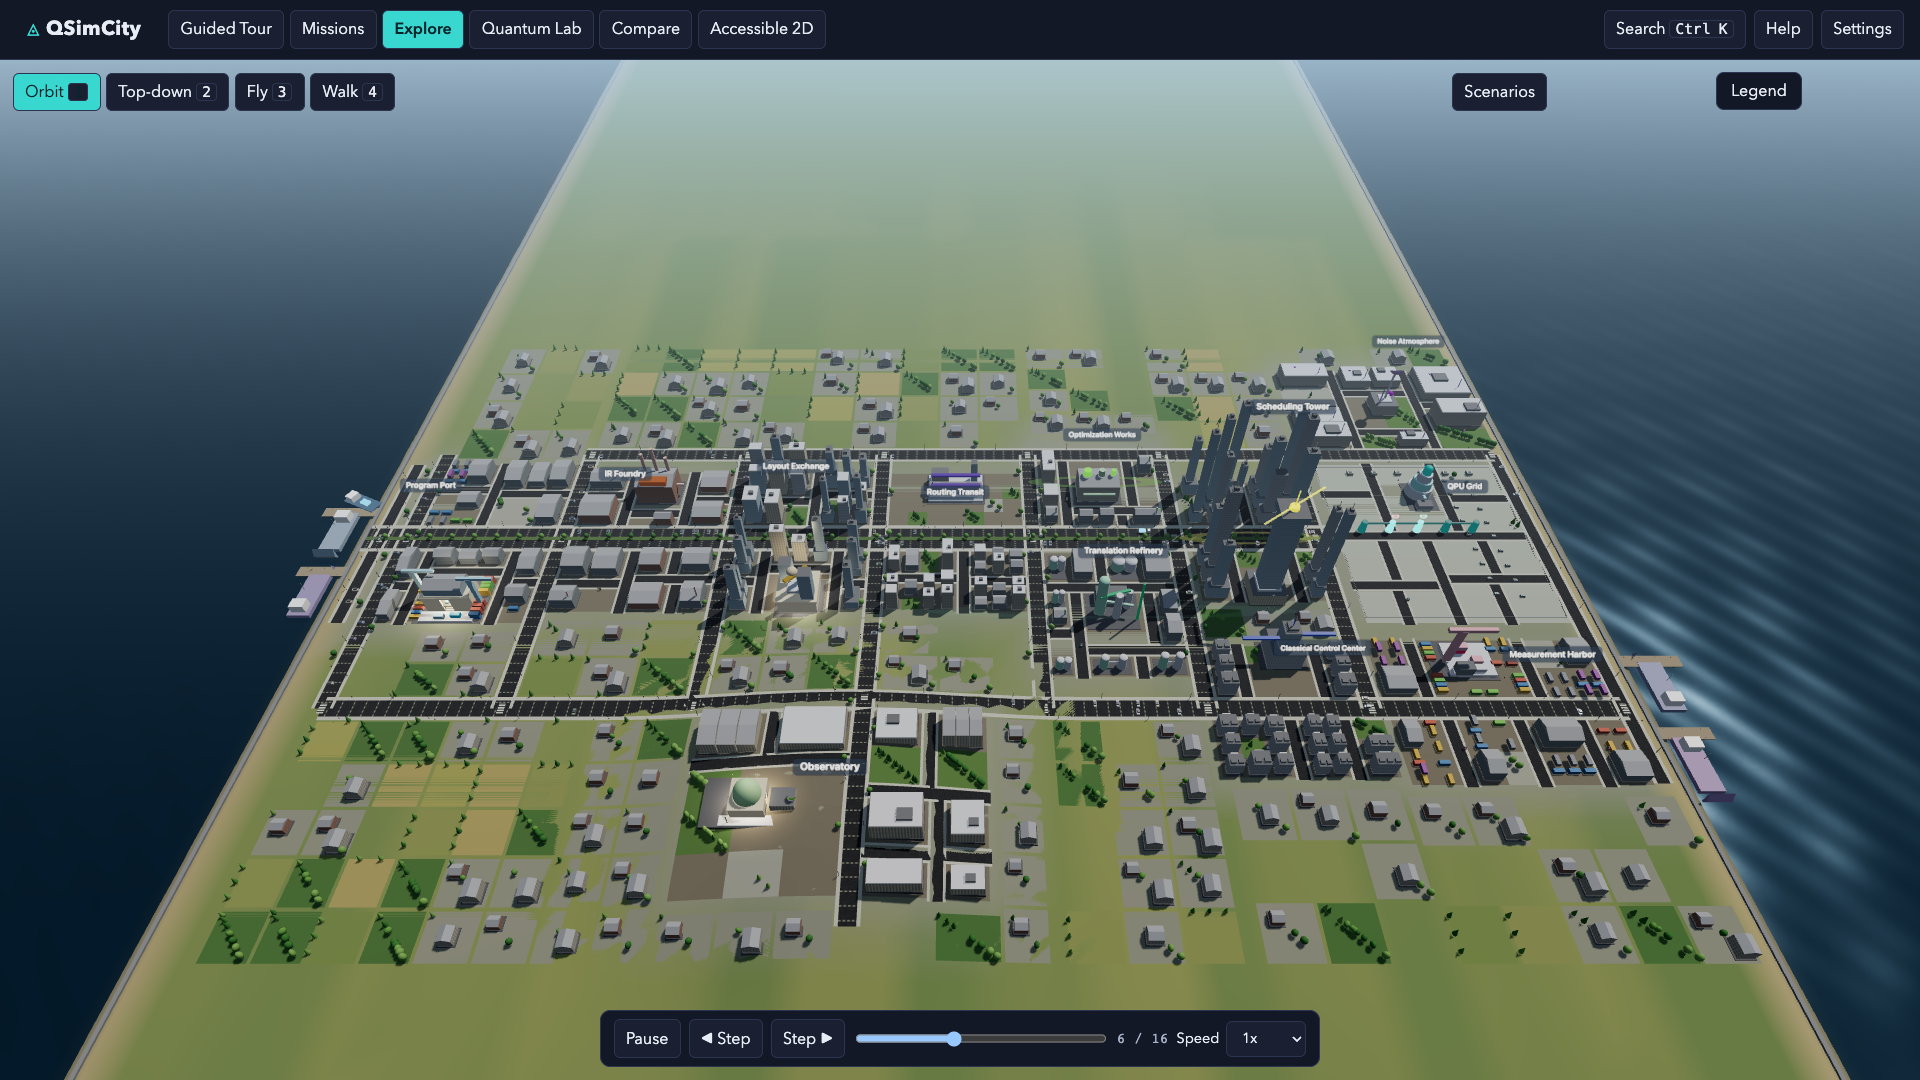
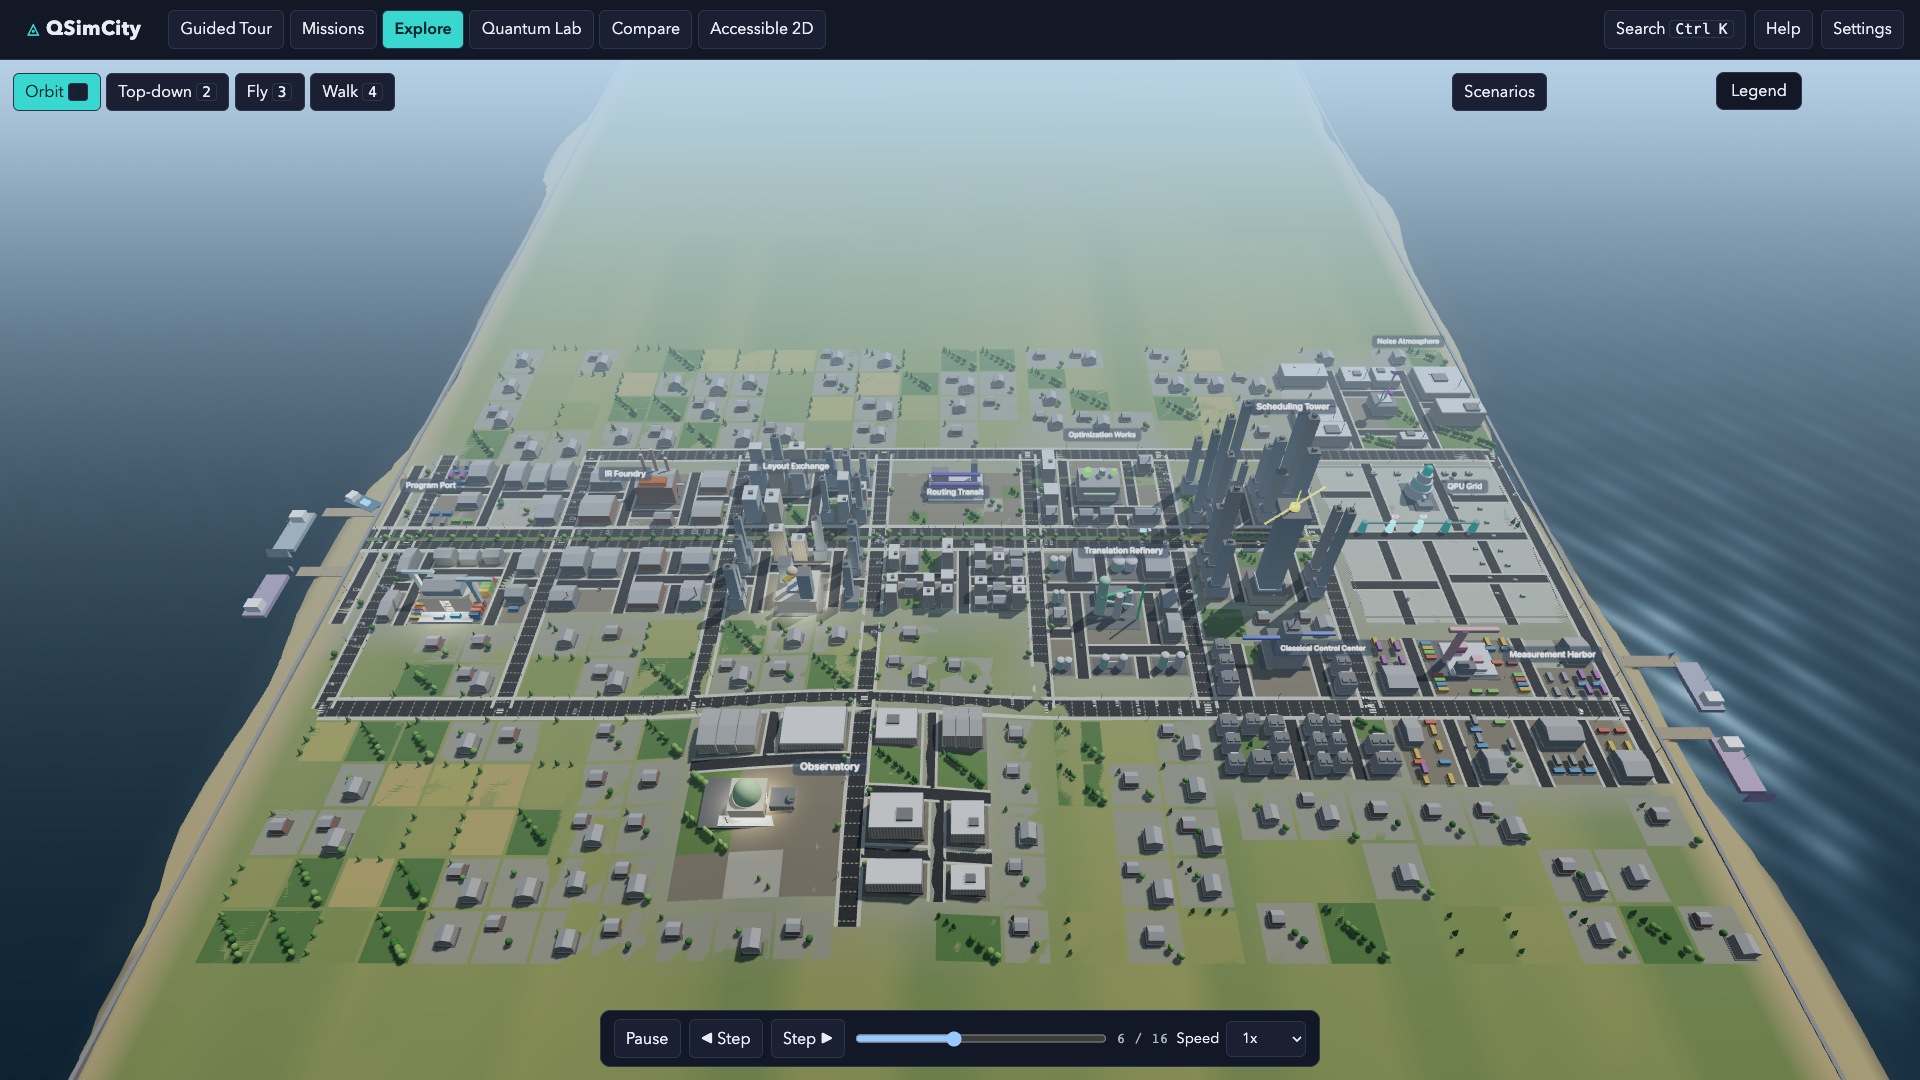
Give the city a coastline, air, and ground that is not perfectly flat
Inspected every surface with vision — overview, street, interior, day,
golden hour, night, mobile — and the diorama impression came down to three
things, all of them geometric rather than stylistic.

**The coast was two straight lines.** `isWater(x, _z)` ignored z entirely,
so the land was a perfect rectangle and read as a slab cut out and placed
on a table. The shoreline now wanders with z through three sine terms at
incommensurable wavelengths: deterministic, three trig calls, and it never
repeats over the city's length. The wander is applied strictly outward, so
it can only ever add land — the western quay road sits about ten units
inside the old coast line, and a shoreline that could move inland would
flood it. A test asserts that invariant across the whole z range, and
another asserts the coast actually wanders rather than silently
degenerating to a straight line.

**Water props were pinned to the old straight coast.** With the shoreline
moved, a ship moored a fixed distance west of WEST_COAST_X ended up beached
on the new land — which the W1.1 prop test caught immediately. Ships and
buoys are now placed relative to the shoreline at their own z.

**The ground was flat to the millimetre and the air was empty.** The plain
now rolls by under a metre over long wavelengths: enough that the eye stops
reading a table top, small enough that roads (which sample terrain every 12
units) and buildings still sit on it correctly. The land also dips to meet
[…]

diff --git a/packages/world/src/terrain.ts b/packages/world/src/terrain.ts
@@ -33,9 +33,50 @@ export const HILL_CENTER = { x: -20 * CITY_SCALE, z: 132 * CITY_SCALE } as const
 export const HILL_RADIUS = 82 * CITY_SCALE;
 export const HILL_HEIGHT = 16;
 
-/** True when the point lies in open water (beyond either quay edge). */
-export function isWater(x: number, _z: number): boolean {
-  return x < WEST_COAST_X || x > EAST_COAST_X;
+/**
+ * Smooth, deterministic coastline wander at a given z.
+ *
+ * A coast made of two perfectly straight lines is the single strongest
+ * reason the city read as a rectangular slab sitting on a table: real
+ * shorelines are never parallel to a grid. Three sine terms at
+ * incommensurable wavelengths give a shoreline that never repeats over the
+ * city's length, costs three trig calls, and is exactly reproducible —
+ * no runtime randomness anywhere near rendering (W1.10).
+ *
+ * The offset is always >= 0 and is applied *outward*, into the water. The
+ * coast can therefore only ever add land, never eat into it: the western
+ * quay road sits about 10 units inside WEST_COAST_X, and a shoreline that
+ * wandered inland would flood it.
+ */
+export const COAST_WANDER = 34;
+
+function coastOffset(z: number, seed: number): number {
+  const a = Math.sin(z / 96 + seed * 1.7);
+  const b = Math.sin(z / 41 + seed * 4.1);
+  const c = Math.sin(z / 173 + seed * 2.3);
+  // Normalised to 0..1, then weighted so the long wavelength dominates.
+  const wave = (0.55 * a + 0.28 * b + 0.17 * c + 1) / 2;
+  return wave * COAST_WANDER;
+}
+
+/** X of the western shoreline at a given z (more negative = more land). */
+export function westCoastAt(z: number): number {
+  return WEST_COAST_X - coastOffset(z, 0.31);
+}
+
+/** X of the eastern shoreline at a given z (more positive = more land). */
+export function eastCoastAt(z: number): number {
+  return EAST_COAST_X + coastOffset(z, 2.87);
+}
+
+/** Distance from a point to the nearest shoreline; negative in water. */
+export function distanceToShore(x: number, z: number): number {
+  return Math.min(x - westCoastAt(z), eastCoastAt(z) - x);
+}
+
+/** True when the point lies in open water (beyond the wandering shoreline). */
+export function isWater(x: number, z: number): boolean {
+  return x < westCoastAt(z) || x > eastCoastAt(z);
 }
 
 /** Height of the Observatory hill contribution at a point. */
@@ -49,7 +90,32 @@ export function hillHeight(x: number, z: number): number {
  * Observatory hill; water areas return the seabed. The quay edges are
  * vertical walls rendered by the visual engine along the coast lines.
  */
+/**
+ * Long-wavelength roll across the urban plain.
+ *
+ * Amplitude is deliberately small. Roads sample this every 12 units and
+ * buildings sample it at their footprint, so the ground can undulate
+ * without anything floating or burying itself (W1.1) — but a plain that is
+ * mathematically flat to the millimetre is another reason the city read as
+ * a model rather than a place. A metre of rise and fall over a hundred
+ * metres is enough for the eye to stop seeing a table top.
+ */
+const PLAIN_ROLL = 0.9;
+
+function plainRoll(x: number, z: number): number {
+  return (
+    PLAIN_ROLL *
+    (0.6 * Math.sin(x / 137 + 0.7) * Math.cos(z / 118 - 0.4) + 0.4 * Math.sin((x + z) / 83 + 2.1))
+  );
+}
+
 export function terrainHeight(x: number, z: number): number {
   if (isWater(x, z)) return SEABED_HEIGHT;
-  return PLAIN_HEIGHT + hillHeight(x, z);
+  // Foreshore: the land dips to meet the water over the last few metres
+  // instead of ending in a vertical wall, so the coast reads as a beach
+  // rather than as the cut edge of a slab.
+  const shore = distanceToShore(x, z);
+  const beach = shore < 18 ? smoothstep(Math.max(0, shore) / 18) : 1;
+  const land = PLAIN_HEIGHT + plainRoll(x, z) + hillHeight(x, z);
+  return SEABED_HEIGHT + (land - SEABED_HEIGHT) * beach;
 }

diff --git a/packages/world/test/terrain.test.ts b/packages/world/test/terrain.test.ts
@@ -1,5 +1,6 @@
 import { describe, expect, it } from 'vitest';
 import {
+  COAST_WANDER,
   EAST_COAST_X,
   HILL_CENTER,
   HILL_HEIGHT,
@@ -7,41 +8,70 @@ import {
   SEABED_HEIGHT,
   WATER_LEVEL,
   WEST_COAST_X,
+  eastCoastAt,
   hillHeight,
   isWater,
   terrainHeight,
+  westCoastAt,
 } from '../src/terrain.js';
 import { generateBuildings } from '../src/buildings.js';
 import { cityPlan } from '../src/city-plan.js';
 import { INTERACTIVES } from '../src/interactives.js';
 
 describe('terrain', () => {
-  it('is water beyond both coasts and land between them', () => {
-    expect(isWater(WEST_COAST_X - 1, 0)).toBe(true);
-    expect(isWater(EAST_COAST_X + 1, 0)).toBe(true);
-    expect(isWater(0, 0)).toBe(false);
-    expect(isWater(WEST_COAST_X + 1, 100)).toBe(false);
+  it('is water beyond the shoreline and land between the shores', () => {
+    // The shoreline wanders with z, so "beyond the coast" is measured
+    // against the shoreline at that z, not against a straight line.
+    for (const z of [-200, 0, 137, 300]) {
+      expect(isWater(westCoastAt(z) - 1, z), `west at z=${z}`).toBe(true);
+      expect(isWater(eastCoastAt(z) + 1, z), `east at z=${z}`).toBe(true);
+      expect(isWater(0, z), `centre at z=${z}`).toBe(false);
+    }
   });
 
-  it('keeps the urban plain flat and above water level', () => {
+  it('only ever adds land, so the quay roads can never flood', () => {
+    // The wander is applied outward. If it could move inland it would put
+    // the western quay road — about 10 units inside WEST_COAST_X — in the
+    // sea. This is the invariant that makes the irregular coast safe.
+    for (let z = -400; z <= 500; z += 7) {
+      expect(westCoastAt(z), `west at z=${z}`).toBeLessThanOrEqual(WEST_COAST_X);
+      expect(eastCoastAt(z), `east at z=${z}`).toBeGreaterThanOrEqual(EAST_COAST_X);
+      expect(WEST_COAST_X - westCoastAt(z)).toBeLessThanOrEqual(COAST_WANDER + 1e-6);
+      expect(eastCoastAt(z) - EAST_COAST_X).toBeLessThanOrEqual(COAST_WANDER + 1e-6);
+    }
+  });
+
+  it('gives the shoreline a genuinely irregular edge', () => {
+    // A straight coast is what made the city read as a rectangular slab.
+    const samples = Array.from({ length: 80 }, (_, i) => westCoastAt(i * 11 - 400));
+    const spread = Math.max(...samples) - Math.min(...samples);
+    expect(spread, 'the coast must actually wander').toBeGreaterThan(COAST_WANDER * 0.5);
+  });
+
+  it('rolls the urban plain gently and keeps it above water level', () => {
+    // The plain is no longer flat to the millimetre — a mathematically
+    // level ground plane is part of what read as a table top. It stays
+    // within a metre of PLAIN_HEIGHT so nothing floats or buries itself.
     for (const [x, z] of [
       [-150, 20],
       [0, 20],
       [120, -20],
       [200, 100],
     ] as const) {
-      expect(terrainHeight(x, z)).toBeCloseTo(PLAIN_HEIGHT, 5);
-      expect(terrainHeight(x, z)).toBeGreaterThan(WATER_LEVEL);
+      const h = terrainHeight(x, z);
+      expect(h).toBeGreaterThan(WATER_LEVEL);
+      expect(Math.abs(h - PLAIN_HEIGHT), `${x},${z}`).toBeLessThan(1);
     }
   });
 
   it('raises the Observatory hill to its full height at the center', () => {
     expect(hillHeight(HILL_CENTER.x, HILL_CENTER.z)).toBeCloseTo(HILL_HEIGHT, 5);
-    expect(terrainHeight(HILL_CENTER.x, HILL_CENTER.z)).toBeCloseTo(PLAIN_HEIGHT + HILL_HEIGHT, 5);
+    // Plus or minus the plain roll underneath it.
+    expect(terrainHeight(HILL_CENTER.x, HILL_CENTER.z)).toBeCloseTo(PLAIN_HEIGHT + HILL_HEIGHT, 0);
   });
 
   it('returns the seabed under water', () => {
-    expect(terrainHeight(WEST_COAST_X - 30, 0)).toBe(SEABED_HEIGHT);
+    expect(terrainHeight(westCoastAt(0) - 30, 0)).toBe(SEABED_HEIGHT);
     expect(SEABED_HEIGHT).toBeLessThan(WATER_LEVEL);
   });
 

diff --git a/packages/world/src/props.ts b/packages/world/src/props.ts
@@ -2,7 +2,7 @@ import { CITY_SCALE, type DistrictId } from './districts.js';
 import type { Parcel } from './blocks.js';
 import type { RoadRect, RoadSegment } from './roads.js';
 import { lampPositions } from './roads.js';
-import { EAST_COAST_X, WEST_COAST_X } from './terrain.js';
+import { EAST_COAST_X, WEST_COAST_X, eastCoastAt, westCoastAt } from './terrain.js';
 import { hash01, type Vec2 } from './util.js';
 
 /**
@@ -84,32 +84,46 @@ export const PIERS: readonly Pier[] = [
   },
 ];
 
+/**
+ * Water props are placed relative to the shoreline at their own z, not to
+ * a fixed x. The coast wanders (see terrain.ts), so a ship moored a fixed
+ * distance west of WEST_COAST_X could end up beached on the land the
+ * wander added — which is precisely what the W1.1 prop test caught.
+ */
+function westOfShore(z: number, distance: number): { x: number; z: number } {
+  return { x: westCoastAt(z) - distance, z };
+}
+
+function eastOfShore(z: number, distance: number): { x: number; z: number } {
+  return { x: eastCoastAt(z) + distance, z };
+}
+
 /** Moored ships alongside the piers (illustrative harbor life). */
 const SHIPS: readonly Prop[] = [
   {
     kind: 'ship',
-    position: { x: WEST_COAST_X - 20, z: 4 * CITY_SCALE + 22 },
+    position: westOfShore(4 * CITY_SCALE + 22, 20),
     rotationY: 0,
     variant: 0.2,
     districtId: 'program-port',
   },
   {
     kind: 'ship',
-    position: { x: WEST_COAST_X - 16, z: 34 * CITY_SCALE + 24 },
+    position: westOfShore(34 * CITY_SCALE + 24, 16),
     rotationY: Math.PI,
     variant: 0.7,
     districtId: 'program-port',
   },
   {
     kind: 'ship',
-    position: { x: EAST_COAST_X + 18, z: 74 * CITY_SCALE + 22 },
+    position: eastOfShore(74 * CITY_SCALE + 22, 18),
     rotationY: Math.PI,
     variant: 0.45,
     districtId: 'measurement-harbor',
   },
   {
     kind: 'ship',
-    position: { x: EAST_COAST_X + 14, z: 102 * CITY_SCALE + 24 },
+    position: eastOfShore(102 * CITY_SCALE + 24, 14),
     rotationY: 0,
     variant: 0.9,
     districtId: 'measurement-harbor',
@@ -119,25 +133,25 @@ const SHIPS: readonly Prop[] = [
 const BUOYS: readonly Prop[] = [
   {
     kind: 'buoy',
-    position: { x: WEST_COAST_X - 72, z: -8 * CITY_SCALE },
+    position: westOfShore(-8 * CITY_SCALE, 72),
     rotationY: 0,
     variant: 0.1,
   },
   {
     kind: 'buoy',
-    position: { x: WEST_COAST_X - 84, z: 64 * CITY_SCALE },
+    position: westOfShore(64 * CITY_SCALE, 84),
     rotationY: 0,
     variant: 0.5,
   },
   {
     kind: 'buoy',
-    position: { x: EAST_COAST_X + 74, z: 60 * CITY_SCALE },
+    position: eastOfShore(60 * CITY_SCALE, 74),
     rotationY: 0,
     variant: 0.3,
   },
   {
     kind: 'buoy',
-    position: { x: EAST_COAST_X + 82, z: 128 * CITY_SCALE },
+    position: eastOfShore(128 * CITY_SCALE, 82),
     rotationY: 0,
     variant: 0.8,
   },

diff --git a/packages/visual-engine/src/sky.ts b/packages/visual-engine/src/sky.ts
@@ -20,6 +20,14 @@ export interface LightingPreset {
   readonly hemiSky: number;
   readonly hemiGround: number;
   readonly hemiIntensity: number;
+  /**
+   * Aerial perspective. The city spans roughly 800 units, and fog that
+   * started at 470 left almost all of it equally crisp — which is a large
+   * part of why the city read as a model on a table rather than as a place
+   * with distance in it. Real air takes contrast out of far buildings;
+   * bringing the fog in gives the skyline depth without hiding anything a
+   * learner needs to read.
+   */
   readonly fogColor: number;
   readonly fogNear: number;
   readonly fogFar: number;
@@ -42,8 +50,8 @@ export const LIGHTING_PRESETS: Record<TimeOfDay, LightingPreset> = {
     hemiGround: 0x8f8a7a,
     hemiIntensity: 0.95,
     fogColor: 0xbcd7ec,
-    fogNear: 470,
-    fogFar: 1450,
+    fogNear: 320,
+    fogFar: 1280,
     exposure: 1.0,
     starOpacity: 0,
     cloudColor: 0xffffff,
@@ -61,8 +69,8 @@ export const LIGHTING_PRESETS: Record<TimeOfDay, LightingPreset> = {
     hemiGround: 0x6a6053,
     hemiIntensity: 0.72,
     fogColor: 0xf2a35c,
-    fogNear: 440,
-    fogFar: 1380,
+    fogNear: 300,
+    fogFar: 1200,
     exposure: 1.24,
     starOpacity: 0,
     cloudColor: 0xffc9a0,
@@ -80,7 +88,7 @@ export const LIGHTING_PRESETS: Record<TimeOfDay, LightingPreset> = {
     hemiGround: 0x1c202b,
     hemiIntensity: 0.95,
     fogColor: 0x1c2a4a,
-    fogNear: 420,
+    fogNear: 330,
     fogFar: 1300,
     exposure: 1.12,
     starOpacity: 1,

diff --git a/tests/e2e/visual.spec.ts b/tests/e2e/visual.spec.ts
@@ -146,10 +146,13 @@ test.describe('desktop surfaces', () => {
 
   test('offline mode still serves the app shell', async ({ page, context }) => {
     await page.goto(e2eUrl('/'));
-    // Wait for the service worker to finish precaching rather than sleeping.
-    await page.waitForFunction('navigator.serviceWorker.controller !== null', undefined, {
-      timeout: 30_000,
-    });
+    // Wait for the service worker to be active rather than sleeping.
+    // `controller` is the wrong signal: it stays null on the very first
+    // navigation until the worker claims the page, which it may only do
+    // after this test has already reloaded. `ready` resolves once the
+    // registration is active, and activation happens after install — so
+    // precaching is complete by then, which is what the test needs.
+    await page.evaluate('navigator.serviceWorker.ready.then(() => true)');
     await context.setOffline(true);
     await page.reload();
     await expect(page.getByRole('heading', { name: /QSimCity/ })).toBeVisible({ timeout: 15_000 });
